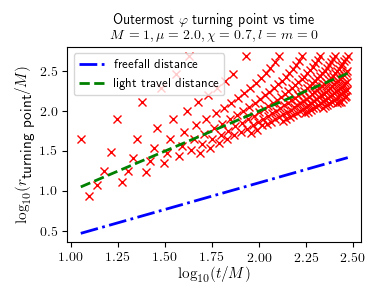
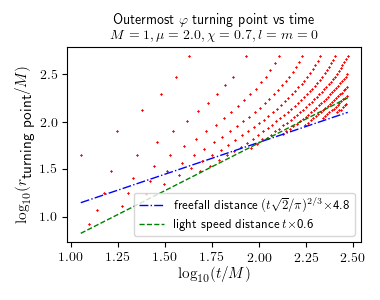
new plots

diff --git a/Analysis/scripts/plot_radial_profile_phi_find_propagation_speed.py b/Analysis/scripts/plot_radial_profile_phi_find_propagation_speed.py
@@ -104,21 +104,25 @@ def plot_graph():
 	for i in range(0, len(data_dirs)):
 		dd = data_dirs[i]
 		dd.load_data()
+		A_light = 0.6
+		A_ff = 4.8
+		r_light = A_light*dd.time
+		r_ff = A_ff*(np.sqrt(2)*dd.time/(M*np.pi))**(2/3)
 		if log_x:
 			x = np.log10(dd.time/M)
 		else:
 			x = dd.time/M
 		if log_y:
 			y = np.log10(dd.max_extrema/M)
-			y_free_fall = np.log10((np.sqrt(2)*dd.time/(M*np.pi))**(2/3))
-			y_light = np.log10((dd.time/M))
+			y_free_fall = np.log10(r_ff)
+			y_light = np.log10(r_light)
 		else:
 			y = dd.max_extrema/M
-			y_free_fall = (np.sqrt(2)*dd.time/(M*np.pi))**(2/3)
-			y_light = dd.time/M
-		ax1.plot(x, y, colours[0] + "x", label="_turning point", linewidth=1)
-		ax1.plot(x, y_free_fall, colours[1] + "-.", label="freefall distance", linewidth=2)
-		ax1.plot(x, y_light, colours[2] + "--", label="light travel distance", linewidth=2)
+			y_free_fall = r_ff
+			y_light = r_light
+		ax1.plot(x, y, colours[0] + "x", label="_turning point", markersize=1)
+		ax1.plot(x, y_free_fall, colours[1] + "-.", label="freefall distance $(t\\sqrt{2}/\\pi)^{2/3}$" + "$\\times${:.1f}".format(A_ff), linewidth=1)
+		ax1.plot(x, y_light, colours[2] + "--", label="light speed distance $t\\times${:.1f}".format(A_light), linewidth=1)
 	if log_y:
 		ax1.set_ylabel("$\\log_{10}(r_{\\textup{turning point}}/M)$", fontsize=label_size)
 	else:
